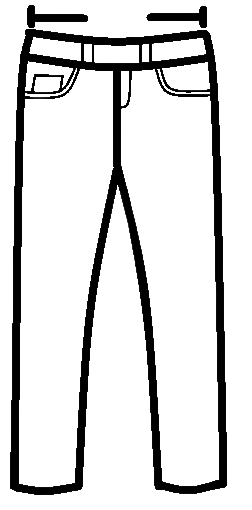
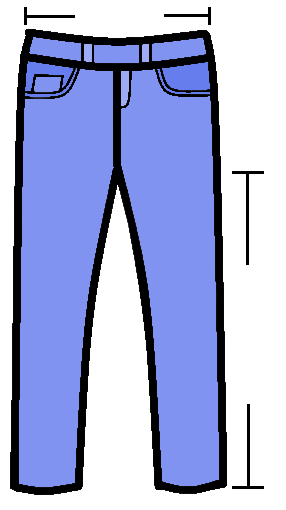
colors in the popup!

diff --git a/popup.html b/popup.html
@@ -19,10 +19,10 @@
 <p id="disp_email">EMAIL</p>
 <span class="user_dims" id="waist_display"></span>
 <span class="user_dims" id="inseam_display"></span>
-<img class = "graphics" id="shirt" src="images/shirt_rough_nobg.png" height="120" width"100" alt="shirt sizing">
-<img class="graphics" id="pants" src="images/jeans_thicc_nobg.png" height="120" width="60" alt="pant sizing">
+<img class="graphics" id="shirt" src="images/shirt_rough_nobg_color.png" height="180" width"180" alt="shirt sizing">
+<img class="graphics" id="pants" src="images/jeans_thicc_nobg_color.png" height="240" width="120" alt="pant sizing">
 <span class="user_dims" id="chest_display"></span>
-<button id="edit_btn" style="background: url(images/edit.png)" height="100" width="100"/>
+<button id="edit_btn" height="100" width="100"><span class="view_info" id="es_btn"><img src="images\edit.png" height="20" width="20"></span></button>
 <script src="popup.js" charset="utf-8"></script>
 </body>
 </html>

diff --git a/popup.css b/popup.css
@@ -6,22 +6,20 @@ body {
 #waist_display {
 	position: absolute;
 	margin-top:-10px;
-
-	text-indent: 22px;	
-
+	text-indent: 290px;
 
 }
 
 #inseam_display {
 	position: absolute;
-	margin-top: 50px;
-	text-indent: 55px;
+	margin-top: 140px;
+	text-indent: 348px;
 }
 
 #chest_display {
 	position: absolute;
-	margin-top: 50ps;
-	text-indent: 100px;
+	margin-top: 0px;
+	text-indent: -90px;
 }
 
 #banner {
@@ -34,8 +32,17 @@ body {
 }
 
 #edit_btn {
-	text-align: center;
 	
+}
+
+#pants {
+	float: right;
+	padding-right: 50px;
+}
+
+#shirt {
+	padding-left: 50px;
+
 }
 
 .graphics {
@@ -46,8 +53,16 @@ body {
 	color: red;
 	z-index: 1;
 	font-weight: bold;
+	font-size: 14px;
 	//border: 2px solid LightGray;
 	//border-radius: 3px;
 	//box-sizing: border-box;
 
 }
+
+input::-webkit-outer-spin-button,
+input::-webkit-inner-spin-button {
+  -webkit-appearance: none;
+  margin: 0;
+}
+

diff --git a/popup.js b/popup.js
@@ -4,9 +4,9 @@ window.onload=function() {
     inseamSize: 34,
     chestSize: 35
   }, function(items) {
-    document.getElementById('waist_display').innerHTML = "waist" + items.waistSize;
-    document.getElementById('inseam_display').innerHTML = "inseam" + items.inseamSize;
-    document.getElementById('chest_display').innerHTML = "chest" + items.chestSize;
+    document.getElementById('waist_display').innerHTML = items.waistSize;
+    document.getElementById('inseam_display').innerHTML = items.inseamSize;
+    document.getElementById('chest_display').innerHTML = items.chestSize;
   });
 }
 
